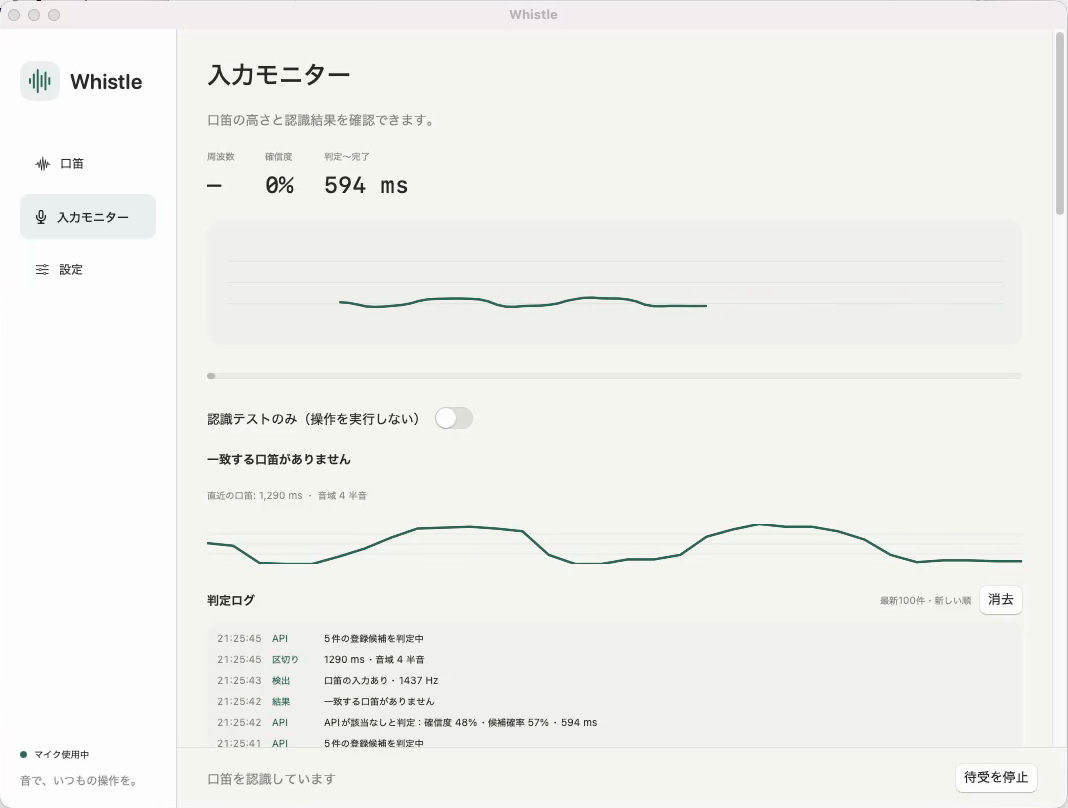
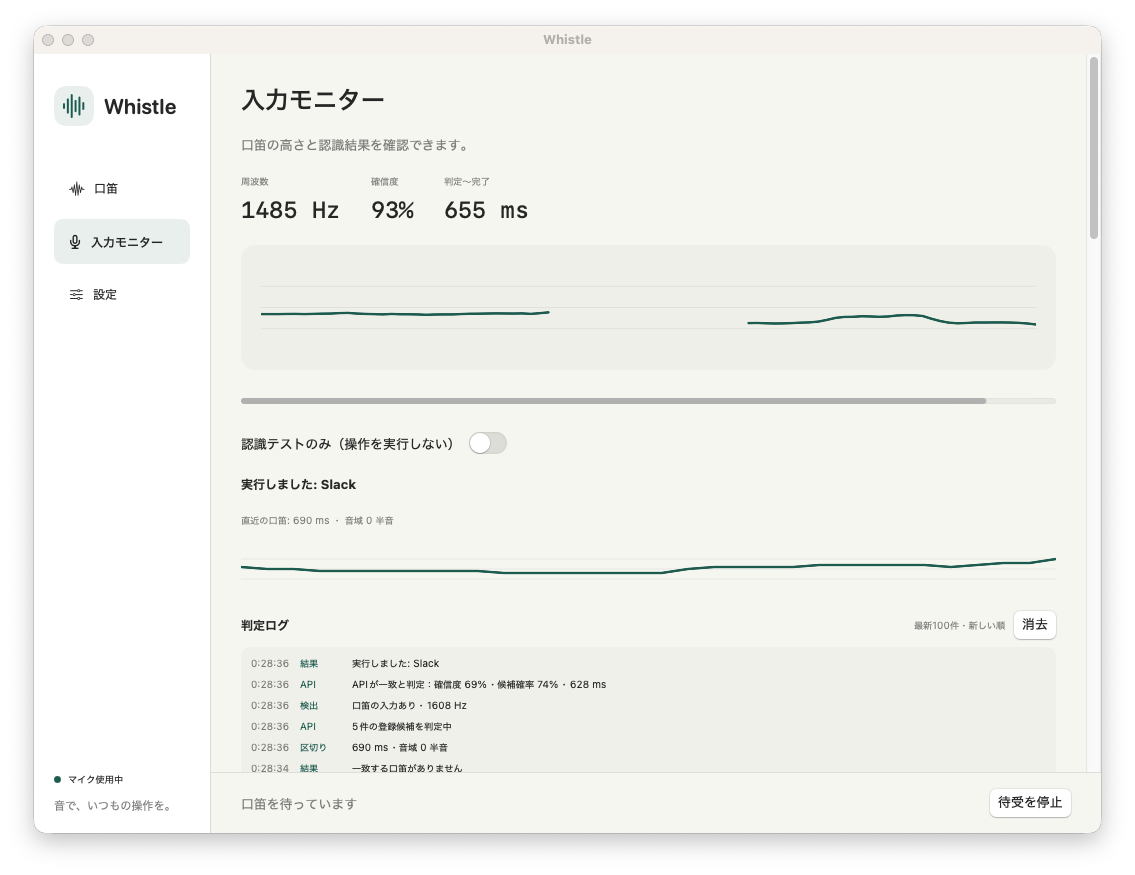
Replace input monitor screenshot with clearer capture

diff --git a/articles/whistle-jev-mac.md b/articles/whistle-jev-mac.md
@@ -137,7 +137,7 @@ shortcuts run <登録済みのショートカットID>
 入力モニターには、検出中の音程、切り出した口笛のグラフ、APIの判定、実行結果を表示します。うまく反応しないときは、音程が取れていないのか、区切りが確定していないのか、Jevが`unknown`を選んだのかを確認できます。
 
 ![音程グラフとAPIの判定ログを表示した入力モニター](/images/whistle-jev/monitor.png)
-*デモ収録時の入力モニター。該当なしと判定された入力もログに残ります。*
+*入力モニター。音程グラフと判定ログ、Slackの実行結果を確認できます。*
 
 画面上部の「確信度」はローカルの音程検出の値で、判定ログにあるAPIの確信度とは別です。APIの確信度と候補確率は診断用に表示し、実行可否の独自の閾値には使っていません。
 
